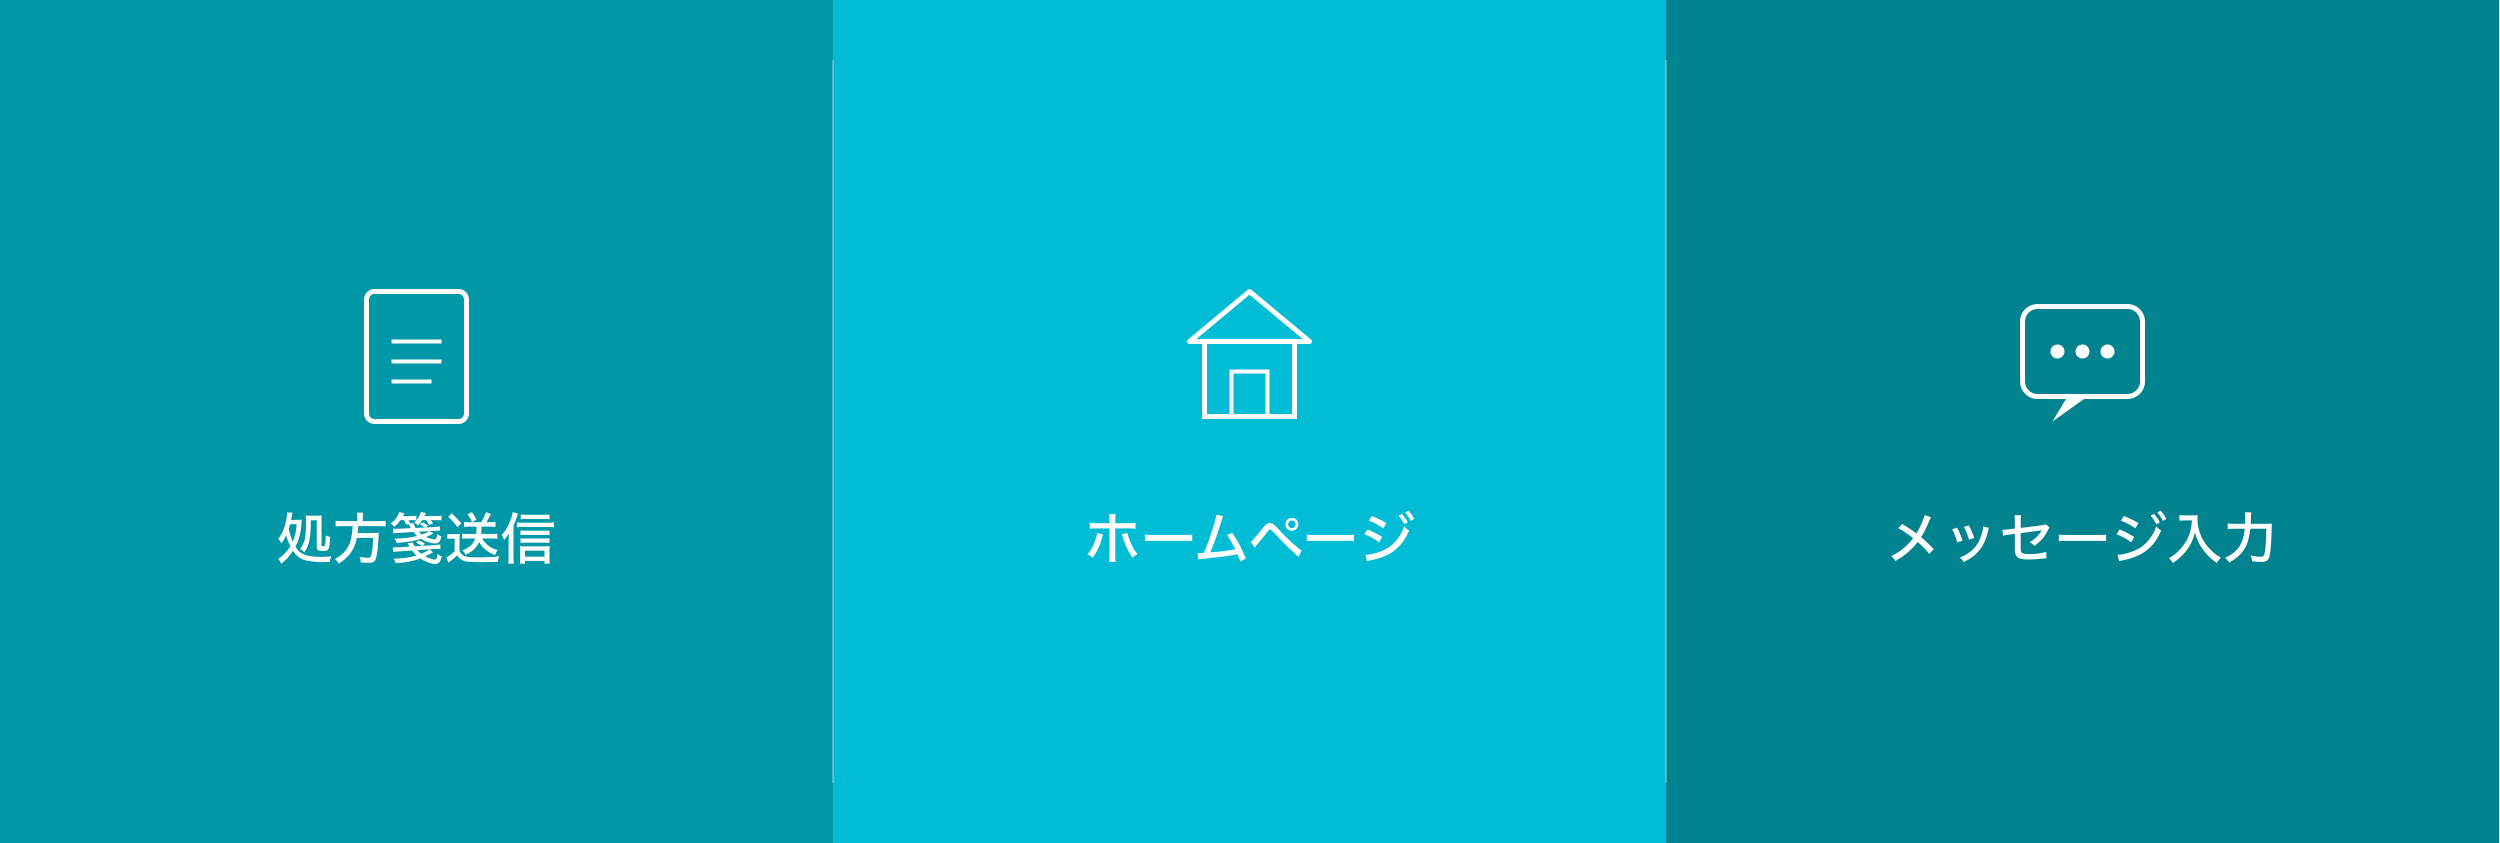
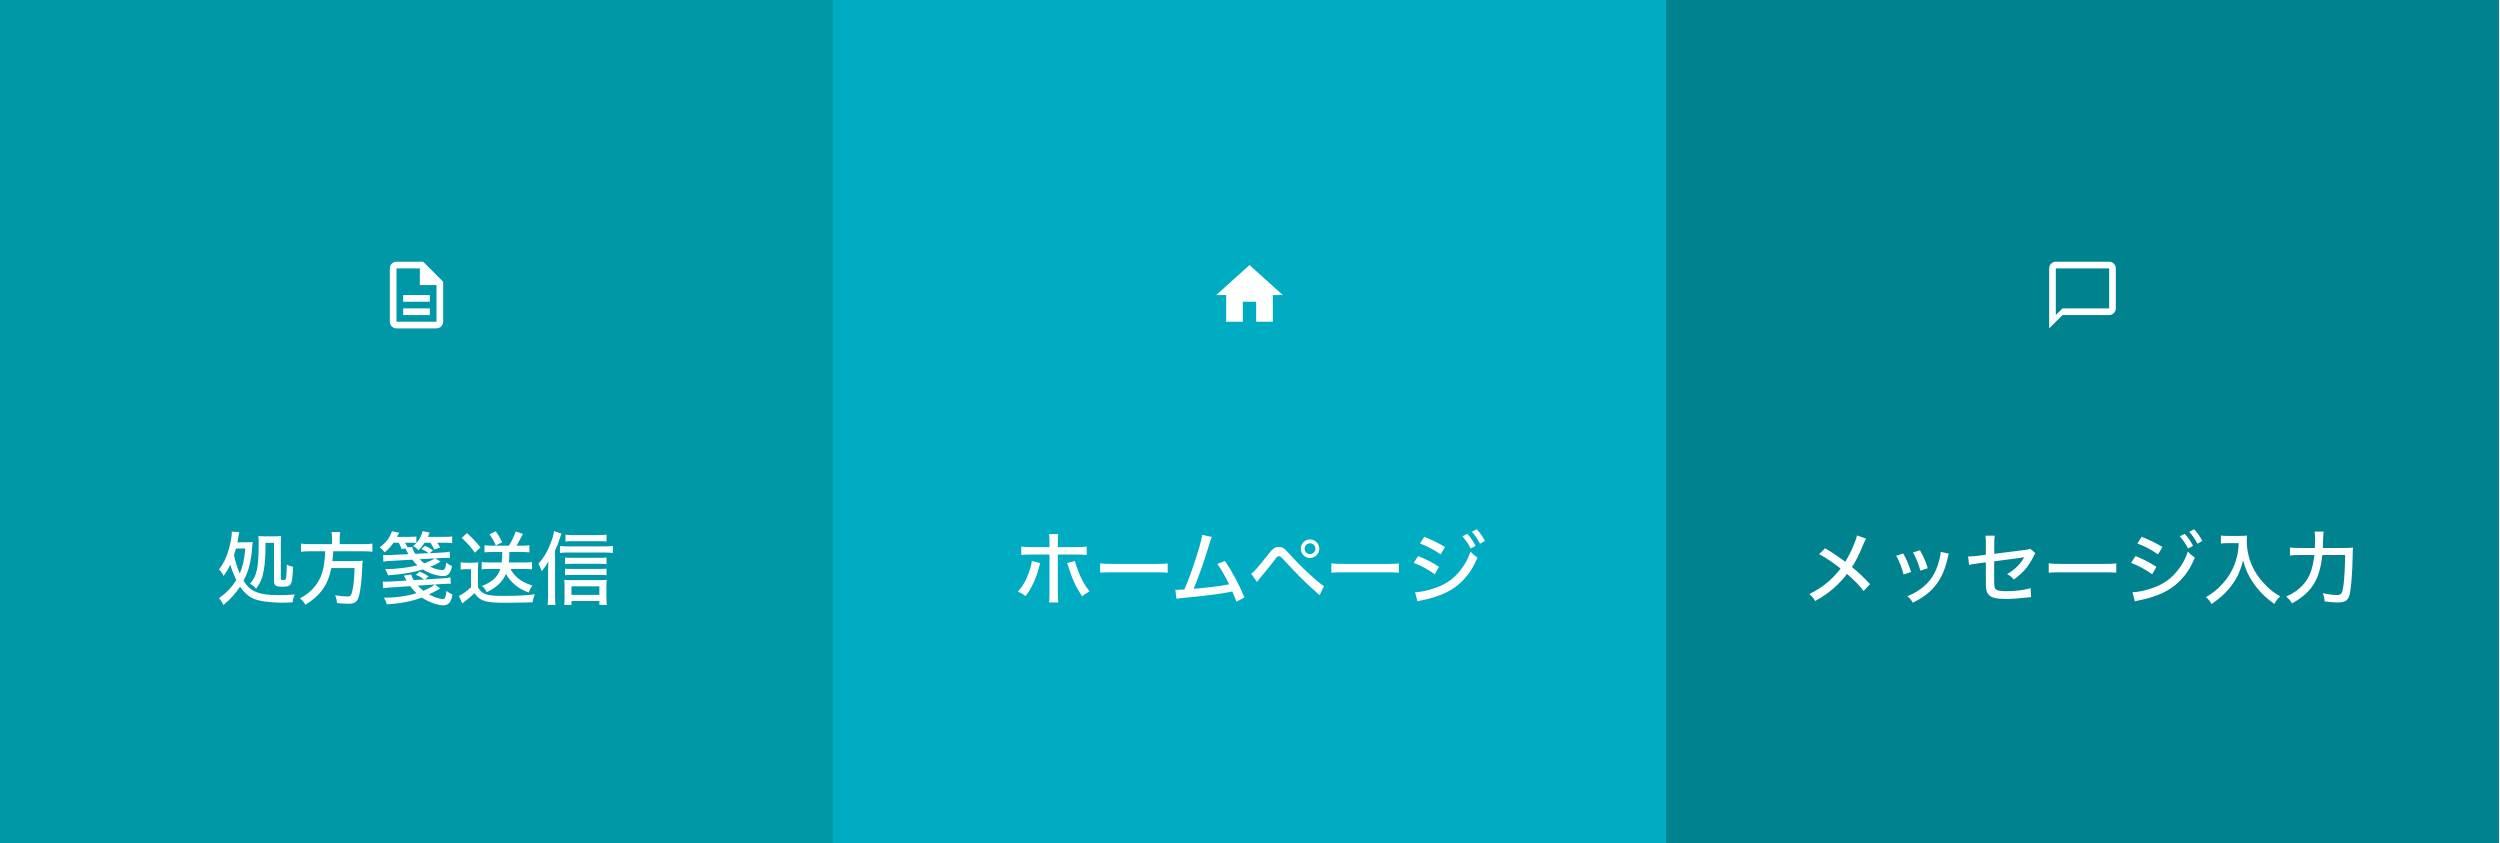
feat: リッチメニューの文字を大きく（80px）、生成スクリプト追加
Made-with: Cursor

diff --git a/scripts/generate-richmenu.js b/scripts/generate-richmenu.js
@@ -1,0 +1,80 @@
+/**
+ * リッチメニュー画像を生成するスクリプト
+ * 実行: node scripts/generate-richmenu.js
+ * 出力: public/richmenu.png
+ *
+ * フォントサイズを大きくする場合は FONT_SIZE を変更
+ */
+const sharp = require("sharp");
+const fs = require("fs");
+const path = require("path");
+
+const W = 2500;
+const H = 843;
+const SEG_W = Math.floor(W / 3); // 833
+const FONT_SIZE = 80; // 文字サイズ（スマホで見やすく大きく）
+const ICON_SIZE = 80;
+
+// 背景色（ティール系）
+const COLORS = [
+  "#0097a7", // 左
+  "#00acc1", // 中央（やや明るい）
+  "#00838f", // 右
+];
+
+const LABELS = ["処方箋送信", "ホームページ", "メッセージ入力"];
+
+// アイコン（SVG path）: 処方箋、家、メッセージ
+const ICONS = [
+  `<path d="M6 2a2 2 0 0 0-2 2v16a2 2 0 0 0 2 2h12a2 2 0 0 0 2-2V8l-6-6H6zm0 2h7v5h5v11H6V4zm2 8v2h8v-2H8zm0 4v2h8v-2H8z" fill="white"/>`,
+  `<path d="M10 20v-6h4v6h5v-8h3L12 3 2 12h3v8h5z" fill="white"/>`,
+  `<path d="M20 2H4c-1.1 0-2 .9-2 2v18l4-4h14c1.1 0 2-.9 2-2V4c0-1.1-.9-2-2-2zm0 14H6l-2 2V4h16v12z" fill="white"/>`,
+];
+
+function buildSvg() {
+  const rects = COLORS.map(
+    (c, i) =>
+      `<rect x="${i * SEG_W}" y="0" width="${SEG_W}" height="${H}" fill="${c}"/>`
+  ).join("\n");
+
+  const iconGroups = ICONS.map((path, i) => {
+    const cx = i * SEG_W + SEG_W / 2;
+    const iconY = H * 0.35;
+    return `<g transform="translate(${cx - ICON_SIZE / 2}, ${iconY - ICON_SIZE / 2})">
+      <rect width="${ICON_SIZE}" height="${ICON_SIZE}" fill="transparent"/>
+      <g transform="scale(${ICON_SIZE / 24}) translate(0,0)">
+        ${path}
+      </g>
+    </g>`;
+  }).join("\n");
+
+  const textElements = LABELS.map((label, i) => {
+    const x = i * SEG_W + SEG_W / 2;
+    const y = H * 0.68;
+    return `<text x="${x}" y="${y}" font-family="Hiragino Sans, Hiragino Kaku Gothic ProN, sans-serif" font-size="${FONT_SIZE}" font-weight="600" fill="white" text-anchor="middle" dominant-baseline="middle">${label}</text>`;
+  }).join("\n");
+
+  return `<?xml version="1.0" encoding="UTF-8"?>
+<svg xmlns="http://www.w3.org/2000/svg" width="${W}" height="${H}" viewBox="0 0 ${W} ${H}">
+  ${rects}
+  ${iconGroups}
+  ${textElements}
+</svg>`;
+}
+
+async function main() {
+  const svg = buildSvg();
+  const outPath = path.join(__dirname, "..", "public", "richmenu.png");
+
+  await sharp(Buffer.from(svg))
+    .png()
+    .toFile(outPath);
+
+  console.log(`Generated: ${outPath}`);
+  console.log(`Font size: ${FONT_SIZE}px`);
+}
+
+main().catch((e) => {
+  console.error(e);
+  process.exit(1);
+});
